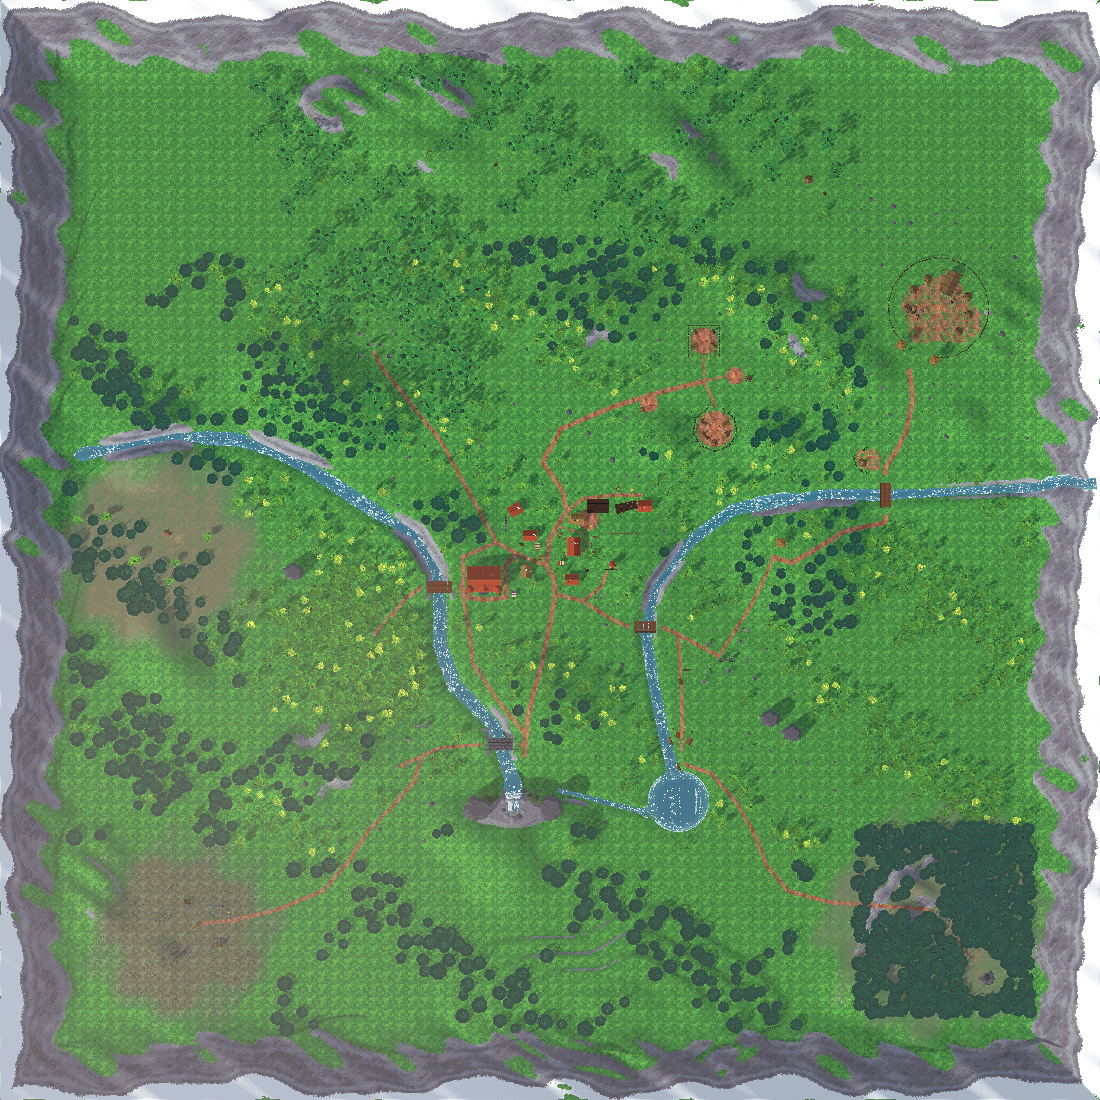
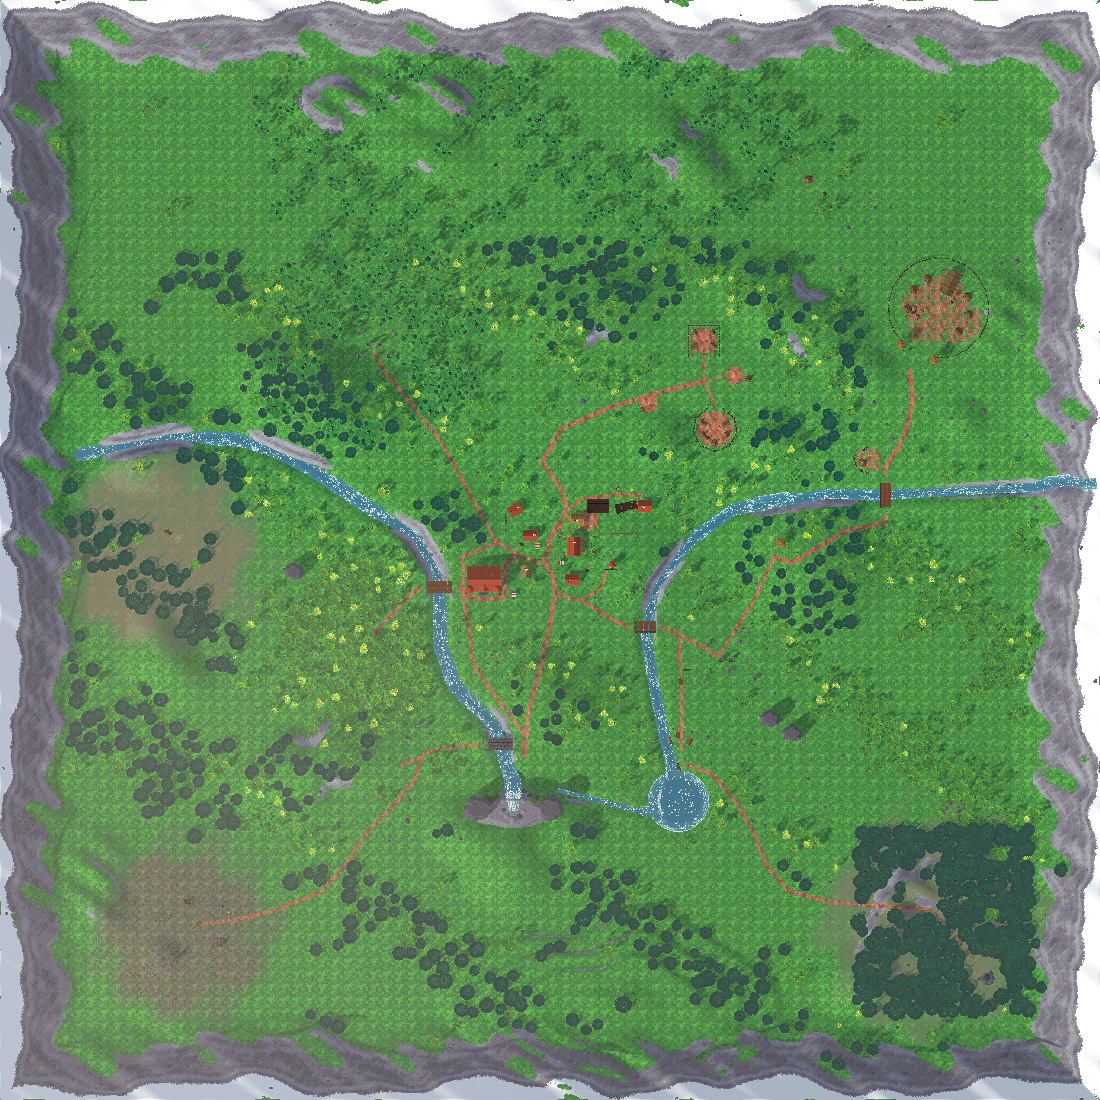
Scatter by biome: meadow oaks, riverside trees, forest edges, rocks on slopes
Scatter entries can ask for a height band, slopes only, a distance from water or the rim of a
forest ground. Meadow Valley gets lone oaks, willows and alders along every stream, bushes and
young birches where woods meet meadow, rocks on hillsides, pines on Greyfang's heights and a heath
at Moonfell. Village idle frame 9.4 ms.

Claude-Session: https://claude.ai/code/session_01LdsgKz31vMbMnFngz4b982

diff --git a/shared-core/Zone.cs b/shared-core/Zone.cs
@@ -91,10 +91,16 @@ public sealed class Zone
     /// <param name="Unless">Hidden once this story flag is set.</param>
     private sealed record PropData(string Model, float X, float Z, float Yaw = 0f, string? Flag = null, string? Unless = null);
 
-    /// <summary>Blob shapes the area like a wood instead of a rectangle; Clusters above 0 gathers things into groups.</summary>
+    /// <summary>
+    /// Blob shapes the area like a wood instead of a rectangle; Clusters above 0 gathers things into groups.
+    /// Biome rules pick the ground inside the area: MinHeight and MaxHeight above the valley floor, Steep
+    /// for slopes only (rocks on a hillside), Dry for a least distance from water (a meadow oak), Edge for
+    /// the rim of a forest ground (bushes and young trees where a wood meets the meadow).
+    /// </summary>
     private sealed record ScatterData(
         string Model, int Count, float[] Area, float MinScale, float MaxScale, float Spacing, bool Blob = false, float Clusters = 0f,
-        float Waterside = 0f, float MinHeight = -100f, bool InWater = false);
+        float Waterside = 0f, float MinHeight = -100f, bool InWater = false, float MaxHeight = 1000f, bool Steep = false,
+        float Dry = 0f, bool Edge = false);
 
     private sealed record EnemySpawnData(
         float X, float Z, float Radius, int Count, int MinLevel = 1, int MaxLevel = 3, int RespawnTicks = 900,
@@ -668,7 +674,23 @@ public sealed class Zone
     /// <summary>Waterside plants want the bank of a river or lake, others a minimum height.</summary>
     private bool MatchesGround(ScatterData scatter, HeightField terrain, float x, float z)
     {
-        if (terrain.At(x, z) < scatter.MinHeight)
+        var height = terrain.At(x, z);
+        if (height < scatter.MinHeight || height > scatter.MaxHeight)
+        {
+            return false;
+        }
+
+        if (scatter.Steep && Slope(terrain, x, z) < 0.9f)
+        {
+            return false;
+        }
+
+        if (scatter.Dry > 0f && (Rivers.Any(r => PolylineDistance(r.Points, x, z) < r.Width + scatter.Dry) || InLake(x, z, 1f + scatter.Dry / 15f)))
+        {
+            return false;
+        }
+
+        if (scatter.Edge && !_grounds.Any(g => g.Kind == "forest" && MathF.Abs(new Vector2(x - g.X, z - g.Z).Length() - g.Radius - 3f) < 9f))
         {
             return false;
         }
@@ -682,8 +704,11 @@ public sealed class Zone
         return river || InLake(x, z, 1.25f + scatter.Waterside / 15f);
     }
 
-    private static bool TooSteep(HeightField terrain, float x, float z) =>
-        MathF.Abs(terrain.At(x + 1.5f, z) - terrain.At(x - 1.5f, z)) + MathF.Abs(terrain.At(x, z + 1.5f) - terrain.At(x, z - 1.5f)) > 2.4f;
+    /// <summary>The rise over three metres across and along, summed: 2.4 is too steep to plant on.</summary>
+    private static float Slope(HeightField terrain, float x, float z) =>
+        MathF.Abs(terrain.At(x + 1.5f, z) - terrain.At(x - 1.5f, z)) + MathF.Abs(terrain.At(x, z + 1.5f) - terrain.At(x, z - 1.5f));
+
+    private static bool TooSteep(HeightField terrain, float x, float z) => Slope(terrain, x, z) > 2.4f;
 
     private static bool InClearing(ZoneData data, float x, float z) =>
         (data.Clearings ?? Array.Empty<float[]>()).Any(c => new Vector2(x - c[0], z - c[1]).Length() < c[2]);
@@ -706,7 +731,7 @@ public sealed class Zone
             var tree = scatter.Model.Contains("tree") || scatter.Model is "pine" or "pine_b" or "birch" or "willow" or "blossom" or "apple";
             // Cheap tests first; the distance to every placed prop is the slow one.
             if (OutsideShape(scatter, x, z) || InClearing(data, x, z) || (terrain.At(x, z) < -0.3f && !scatter.InWater) ||
-                !MatchesGround(scatter, terrain, x, z) || TooSteep(terrain, x, z) || (NearWater(x, z) && !scatter.InWater) ||
+                !MatchesGround(scatter, terrain, x, z) || (TooSteep(terrain, x, z) && !scatter.Steep) || (NearWater(x, z) && !scatter.InWater) ||
                 PathDistance(x, z) < (tree ? 3.2f : 1.5f) ||
                 props.Any(p => Near(p, x, z, scatter.Spacing, tree && Footprint(p.Model) > 1.2f ? 3f : 0f)))
             {

diff --git a/design/overnight-plan.md b/design/overnight-plan.md
@@ -47,3 +47,4 @@ Pravidla:
 | 23:55 | 2 | hotovo: world-plan.md kapitola 8 (biomy, atmosféra s prolínáním 40 m, logika sídel, standard domů, opuštěná místa), waystones jen od kamene ke kameni, voda v `layout.json` podle údolí (Silverbrook, Westbrook, Ironwash do Mirror Lake, Mirrorrun za jižním okrajem), mapy překresleny |
 | 00:05 | 3 | hotovo: Southern Wilds → Northern Wilds (zóna, snímek `wildcamp_north`), CLAUDE.md opravené světové strany (Greyfang JV, Moonfell JZ, Ironjaw SV); příběhové dokumenty nechány; kdo už měl Southern Wilds objevené, uvidí jméno až po novém objevení |
 | 00:45 | 4 | hotovo: kopce mohou být protáhlé (`stretch`, `yaw`) s laločnatým obrysem a terasované (`terrace`); 8 kulatých kopců přetvořeno na hřbety, nový terasovaný hřbet u jižního okraje (40, 250); kopce otočené tak, aby žádný tábor nestál na horším svahu než dřív (kontrola výškového rozdílu v kruhu tábora); minimapa a mapa zóny překresleny, snímky `south_terraces`, `wildcamp_north`, `goblin_fort` přečteny; 327 testů zelených. Výkon neměřen (tvar terénu nemění počet objektů) |
+| 01:20 | 5 | hotovo: rozptyl má pravidla biomů (`maxHeight`, `steep`, `dry`, `edge`); osamělé duby na loukách mimo vesnici, vrby a olše podél všech toků, keře a mladé břízy na okrajích lesů, kameny na svazích, borovice na výšinách Greyfangu, trsy a kameny vřesoviště v Moonfell; snímky údolí, mostu, Moonfell přečteny; idle bot ve vesnici 9,4 ms (dřív 9,6), 2092 draws. Vřes jako model zatím chybí (náhradou trsy trávy) |
